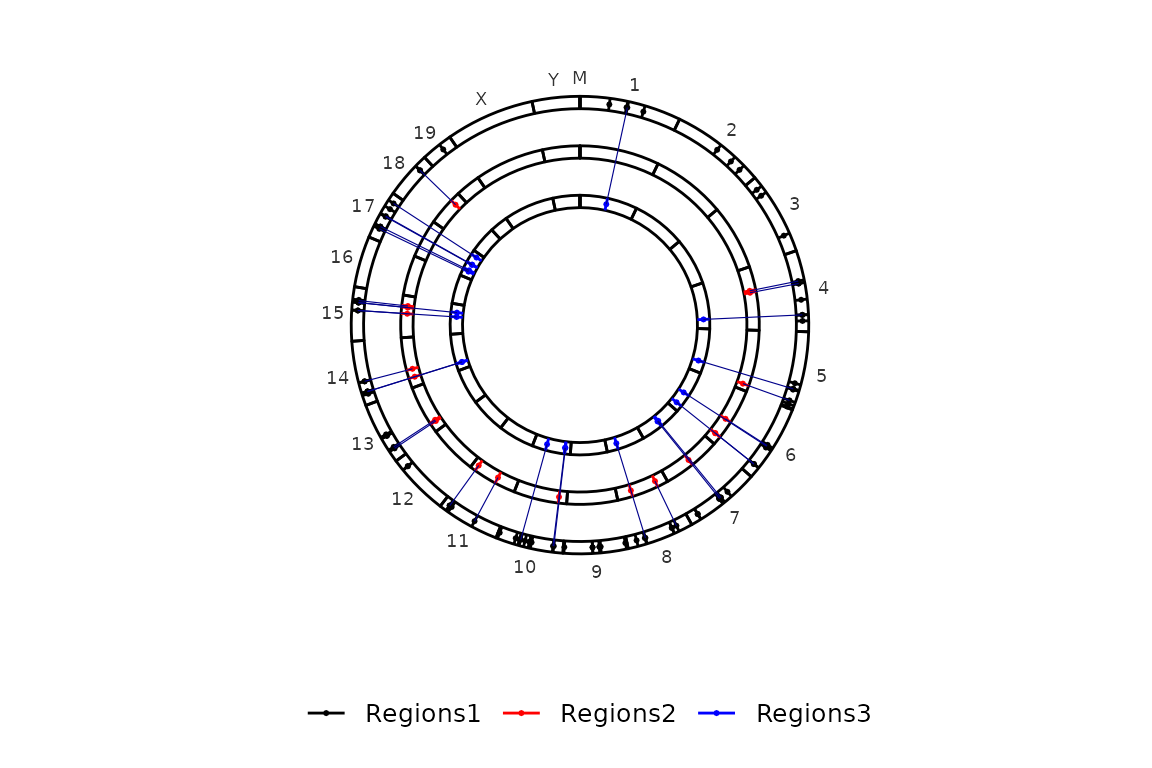
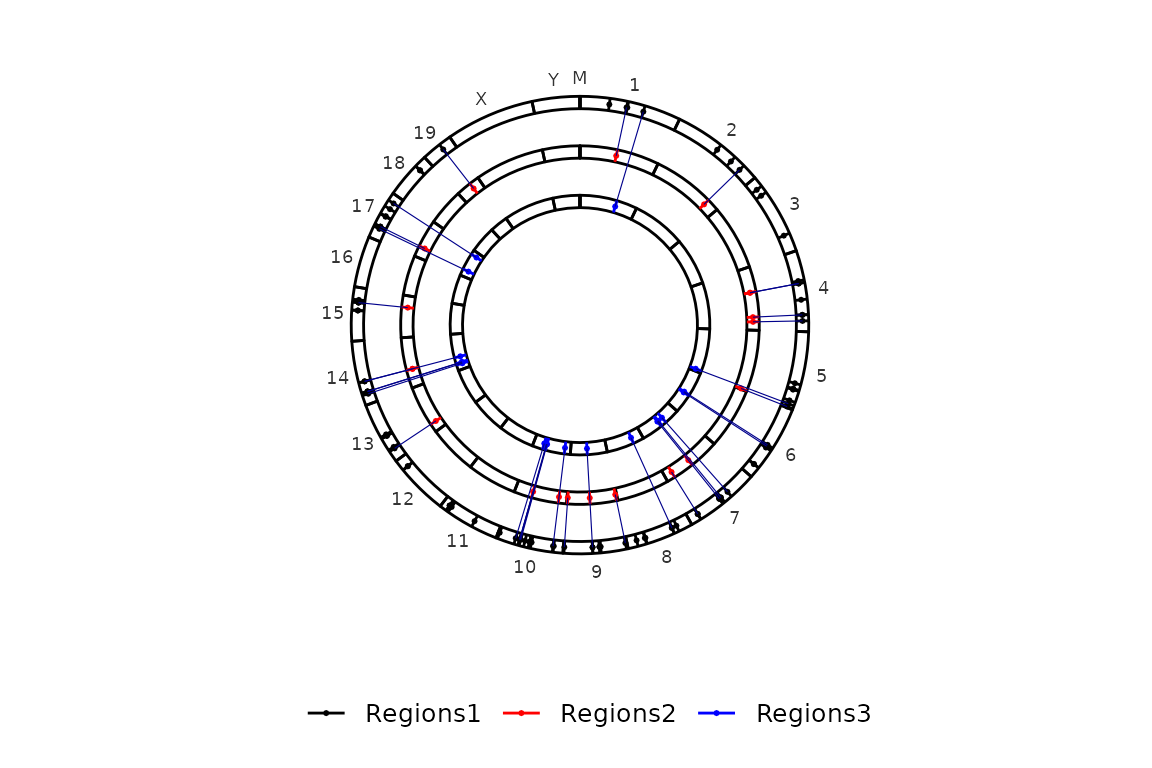
update

diff --git a/docs/index.html b/docs/index.html
@@ -300,12 +300,14 @@ devtools::install_github("amitjavilaventura/plotmics")</code></pre>
 <code>v3.1.1</code> <em>(2021-10-07)</em>:
 <ul>
 <li>Change minor features in <code><a href="reference/barDEGs.html">barDEGs()</a></code> and <code><a href="reference/volcanoPlot.html">volcanoPlot()</a></code>.</li>
+<li>Change minor features in <code><a href="reference/circleRegions.html">circleRegions()</a></code> to exclude the chromosomes before looking if the chromosome names in regions are also in the chrom.sizes files.</li>
 </ul>
 </li>
 <li>
 <code>v3.1.2</code> <em>(2021-10-12)</em>:
 <ul>
 <li>Change minor features in <code><a href="reference/circleRegions.html">circleRegions()</a></code> to exclude the chromosomes before looking if the chromosome names in regions are also in the chrom.sizes files.</li>
+<li>Fix error in <code><a href="reference/circleRegions.html">circleRegions()</a></code> to allow different assemblies.</li>
 </ul>
 </li>
 </ul>

diff --git a/README.md b/README.md
@@ -116,8 +116,10 @@ The version history of `plotmics` is shown below:
   
 * `v3.1.1` *(2021-10-07)*:
   + Change minor features in `barDEGs()` and `volcanoPlot()`.
-  
+  + Change minor features in `circleRegions()` to exclude the chromosomes before looking if the chromosome names in regions are also in the chrom.sizes files.
+
 * `v3.1.2` *(2021-10-12)*:
   + Change minor features in `circleRegions()` to exclude the chromosomes before looking if the chromosome names in regions are also in the chrom.sizes files.
+  + Fix error in `circleRegions()` to allow different assemblies.
   
 <br>
